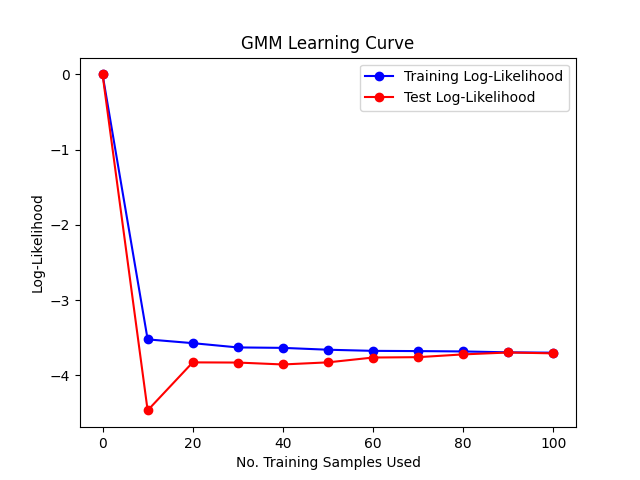
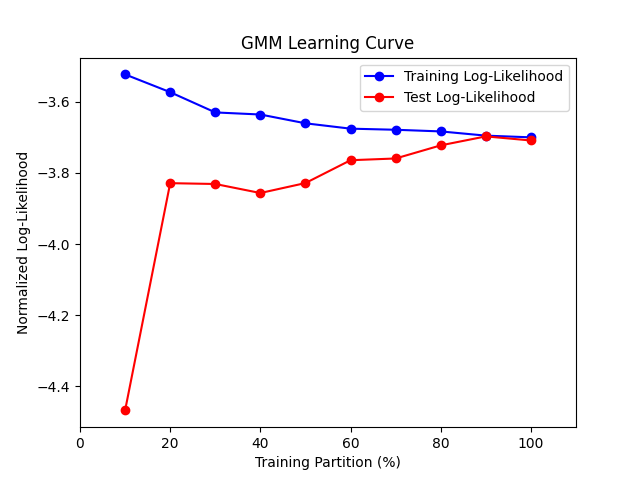
update

diff --git a/PS4/ps4-kit/PS4-P3.py b/PS4/ps4-kit/PS4-P3.py
@@ -6,7 +6,7 @@ import matplotlib.pyplot as plt
 import utils
 from scipy.stats import multivariate_normal
 from gmm import GaussianMixtureModel
-from sklearn.mixture import GaussianMixture
+import winsound
 
 
 def plot_contour_gaussian(ax, mean, covariance, eps=1e-2):
@@ -116,25 +116,24 @@ E step
 '''
 
 ################################################
-# Problem 3a_i
+# Problem 3a
 ################################################
 print('-----------------------------------------------------------------------')
-print('Generate learning curve...')
+print('Generate learning curve (K = 3)...')
 # Container for all models
 learned_models = []
 
 # Container to store log-likelihoods
-log_likelihoods = np.zeros([11, 2])
+log_likelihoods = np.zeros([10, 2])
 
-# Load testing data
+# Load training, testing data
+x_train = utils.load_data_from_txt_file("P3/X_train.txt")
 x_test = utils.load_data_from_txt_file("P3/X_test.txt")
-x_train = utils.load_data_from_txt_file("P3/X_test.txt")
+N, d = x_train.shape
 
-# No. features
-N, d = x_test.shape
-
-# Initialize target number of Gaussians
+# Initialize target number of Gaussians and training partitions
 K = 3
+perms = [10, 20, 30, 40, 50, 60, 70, 80, 90, 100]
 
 # Initialize mixing coefficients
 mix_coeff = np.zeros((K, ))
@@ -144,23 +143,19 @@ mix_coeff[:] = 1/K
 covar = np.zeros((K, d, d))
 covar[:] = np.eye(d)
 
-# Test data
-x_test = utils.load_data_from_txt_file("P3/X_test.txt")
-
 # Loop through all permutations of training data
-for frac in range(10, 110, 10):
+for frac, perm in enumerate(perms):
     # Load training data from current permutation
-    x_train_perm = utils.load_data_from_txt_file("P3/TrainSubsets/X_train_" + str(frac) + "%.txt")
+    x_train_perm = utils.load_data_from_txt_file("P3/TrainSubsets/X_train_" + str(perm) + "%.txt")
 
     # Load mean initializations
-    mu = utils.load_data_from_txt_file("P3/MeanInitialization/Part_a/mu_" + str(frac) + "%.txt")
+    mu = utils.load_data_from_txt_file("P3/MeanInitialization/Part_a/mu_" + str(perm) + "%.txt")
 
     # Instantiate Gaussian mixture model object
     gmm_mdl = GaussianMixtureModel(K, mu, covar, mix_coeff)
 
     # Learn gmm model on current permutation of training data
     gmm_mdl.fit(x_train_perm)
-    # print("Iterations are: " + str(gmm_mdl.it))
 
     # Store current model
     learned_models.append(gmm_mdl)
@@ -169,25 +164,112 @@ for frac in range(10, 110, 10):
     train_log = gmm_mdl.compute_llh(x_train_perm)
     test_log = gmm_mdl.compute_llh(x_test)
 
-    print("For permutation " + str(frac) + ", iteration " + str(gmm_mdl.it) +
+    print("For permutation " + str(perm) + ", iteration " + str(gmm_mdl.it) +
           ", normalized training log-likelihood is: " + str(round(train_log, 4)) +
           ", normalized test log-likelihood is: " + str(round(test_log, 4)))
 
     # Save log-likelihoods
-    log_likelihoods[int(frac / 10), 0] = train_log
-    log_likelihoods[int(frac / 10), 1] = test_log
+    log_likelihoods[frac, 0] = train_log
+    log_likelihoods[frac, 1] = test_log
 
+print("Parameters of final model:")
+print("Means: " + str(learned_models[9].mus[0]) + str(learned_models[9].mus[1])
+      + str(learned_models[9].mus[2]))
+print("Covariances: " + str(learned_models[9].covariances[0]) +
+      str(learned_models[9].covariances[1]) + str(learned_models[9].covariances[2]))
+print("Mixing coefficients: " + str(learned_models[9].mixing_coeff[0]) +
+      str(learned_models[9].mixing_coeff[1]) + str(learned_models[9].mixing_coeff[2]))
 fig = plot_multiple_contour_plots(learned_models)
 fig.savefig("Plots/3(a)(ii).png")
 print('-----------------------------------------------------------------------')
 
 # Plot Log-likelihoods
 fig, ax = plt.subplots()
-ax.plot(np.linspace(0, 100, num=11), log_likelihoods[:, 0], marker='o', c='b', label='Training Log-Likelihood')
-ax.plot(np.linspace(0, 100, num=11), log_likelihoods[:, 1], marker='o', c='r', label='Test Log-Likelihood')
+ax.plot(np.linspace(10, 100, num=10), log_likelihoods[:, 0], marker='o', c='b', label='Training Log-Likelihood')
+ax.plot(np.linspace(10, 100, num=10), log_likelihoods[:, 1], marker='o', c='r', label='Test Log-Likelihood')
 plt.title('GMM Learning Curve')
 plt.legend()
-ax.set_xlabel('No. Training Samples Used')
-ax.set_ylabel('Log-Likelihood')
+plt.xlim(0, 110)
+ax.set_xlabel('Training Partition (%)')
+ax.set_ylabel('Normalized Log-Likelihood')
 fig.savefig("Plots/3(a)(i).png")
+plt.show(block=False)
+################################################
+# Problem 3b
+################################################
+print('Performing cross-validation...')
+
+# Target Gaussians
+gauss = [1, 2, 3, 4, 5]
+
+# Container to store log-likelihoods and cross validation log-likelihood
+log_likelihoods = np.zeros([len(gauss), 2])
+log_likelihoods_cross = np.zeros([5, len(gauss)])
+
+# Loop through all K values
+for idx_K, K in enumerate(gauss):
+    # Initialize mixing coefficients
+    mix_coeff = np.zeros((K, ))
+    mix_coeff[:] = 1 / K
+
+    # Initialize covariance matrices
+    covar = np.zeros((K, d, d))
+    covar[:] = np.eye(d)
+
+    # Load mean initializations
+    mu = utils.load_data_from_txt_file("P3/MeanInitialization/Part_b/mu_k_" + str(K) + ".txt")
+
+    # Instantiate Gaussian mixture model object for current K value
+    gmm_mdl = GaussianMixtureModel(K, mu, covar, mix_coeff)
+
+    # Learn gmm model on full training data
+    gmm_mdl.fit(x_train)
+
+    # Train and test log-likelihood
+    train_log = gmm_mdl.compute_llh(x_train)
+    test_log = gmm_mdl.compute_llh(x_test)
+
+    # Save log-likelihoods
+    log_likelihoods[idx_K, 0] = train_log
+    log_likelihoods[idx_K, 1] = test_log
+
+    # Loop through all folds
+    for idx_cross, fold in enumerate(gauss):
+        # print("yahyahyah K = " + str(K))
+        # Load training/testing data from current fold
+        x_train_fold = utils.load_data_from_txt_file("P3/CrossValidation/X_train_fold" + str(fold) + ".txt")
+        x_test_fold = utils.load_data_from_txt_file("P3/CrossValidation/X_test_fold" + str(fold) + ".txt")
+
+        # Learn gmm model on training fold
+        gmm_mdl.fit(x_train_fold)
+
+        # Test log-likelihood for respective fold
+        test_fold_log = gmm_mdl.compute_llh(x_test_fold)
+
+        # Save cross log-likelihoods
+        log_likelihoods_cross[idx_cross, idx_K] = test_fold_log
+
+    print("For K = " + str(K) + ", normalized training log-likelihood is: " + str(round(train_log, 4)) +
+          ", normalized test log-likelihood is: " + str(round(test_log, 4)) +
+          ", average cross validation log-likelihood is: " + str(round(np.average(log_likelihoods_cross[:, idx_K]), 4)))
+# Optimal K value
+k_chosen = gauss[np.argmax(np.average(log_likelihoods_cross, axis=0))]
+print("Selected value of K is: " + str(k_chosen))
+print('-----------------------------------------------------------------------')
+
+# Plot Log-likelihoods
+fig, ax = plt.subplots()
+ax.plot(gauss, log_likelihoods[:, 0], marker='o', c='b', label='Training Log-Likelihood')
+ax.plot(gauss, log_likelihoods[:, 1], marker='o', c='r', label='Test Log-Likelihood')
+ax.plot(gauss, np.average(log_likelihoods_cross, axis=0), marker='o', c='k',
+        label='Cross-Validation Log-Likelihood')
+plt.title('GMM Learning Curve')
+plt.legend()
+ax.set_xlabel('No. Gaussians')
+ax.set_ylabel('Normalized Log-Likelihood')
+fig.savefig("Plots/3(b).png")
 plt.show()
+
+duration = 3000  # milliseconds
+freq = 440  # Hz
+winsound.Beep(freq, duration)

diff --git a/PS4/ps4-kit/gmm.py b/PS4/ps4-kit/gmm.py
@@ -1,6 +1,8 @@
 import numpy as np
+import scipy.linalg
 from scipy.stats import multivariate_normal
 import matplotlib.pyplot as plt
+
 
 class GaussianMixtureModel():
     def __init__(self, K, init_mean, covariances, mixing_coeff=None):
@@ -89,19 +91,20 @@ class GaussianMixtureModel():
                      `0 <= j <= k-1`
 
         """
+        N = X.shape[0]
+
         # Posterior distribution container
-        p = np.zeros((X.shape[0], self.K))
+        p = np.zeros((N, self.K))
 
         # Perform E-step
-        for k in range(self.K):
-            # Generate posterior distribution
-            p[:, k] = self.mixing_coeff[k] * multivariate_normal.pdf(X, self.mus[k, :], self.covariances[k])
+        for i in range(N):
+            for k in range(self.K):
+                p[i, k] = self.mixing_coeff[k] * multivariate_normal.pdf(X[i], self.mus[k], self.covariances[k],
+                                                                         allow_singular=False)
+            p[i] = p[i] / np.sum(p[i])
 
-        # Normalize posterior distribution
-        gamma_sum = np.sum(p, axis=1)[:, None]
-        p /= gamma_sum
-
-        return p
+        # Adjust ill-conditioned membership matrix
+        return p + 0.000000001
 
     def M_step(self, X, p):
         """  Do the maximization step of the EM algorithm
@@ -124,14 +127,8 @@ class GaussianMixtureModel():
 
         """
         N = X.shape[0]
-        # fig, ax3 = plt.subplots()
-        # ax3.scatter(self.initmean[:, 0], self.initmean[:, 1], c='b')
-        # ax3.scatter(self.mus[:, 0], self.mus[:, 1], c="r")
-        # plt.title('test')
-        # ax3.set_xlabel('$\mu_1$')
-        # ax3.set_ylabel('$\mu_2$')
-        # plt.show()
 
+        # Update parameters
         for k in range(self.K):
             m_k = np.sum(p[:, k])
             self.mixing_coeff[k] = m_k / N
@@ -150,19 +147,16 @@ class GaussianMixtureModel():
 
         """
         N = X.shape[0]
-        k_terms = np.zeros((self.K, ))
-        m_terms = np.zeros((N, ))
 
         # Compute log-likelihood
+        outer = 0
         for i in range(N):
+            inner = 0
             for k in range(self.K):
-                exp_term = np.exp(-0.5 * (X[i] - self.mus[k]).T @
-                                  np.linalg.inv(self.covariances[k]) @ (X[i] - self.mus[k]))
-                num = self.mixing_coeff[k] * exp_term
-                den = ((2 * np.pi) ** (self.d / 2)) * np.sqrt(np.linalg.det(self.covariances[k]))
-                k_terms[k] = num / den
-            m_terms[i] = np.log(np.sum(k_terms))
+                inner += self.mixing_coeff[k] * multivariate_normal.pdf(X[i], self.mus[k], self.covariances[k],
+                                                                        allow_singular=False)
+            outer += np.log(inner)
 
         # Normalize
-        llh = np.sum(m_terms) / N
+        llh = outer / N
         return llh
